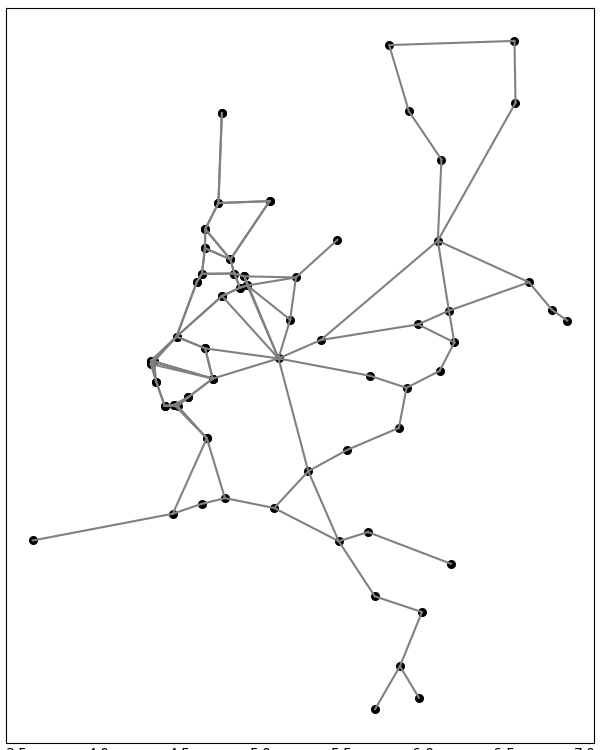
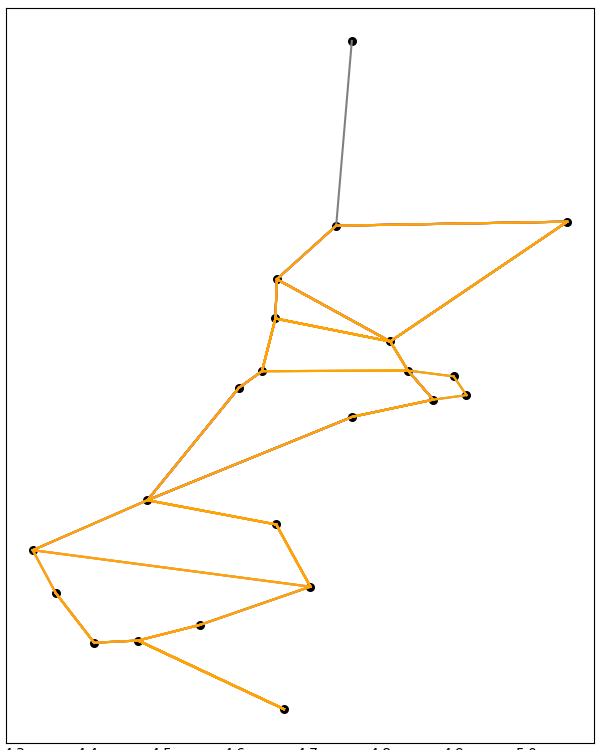
Nederland en connecties worden in een kaart getekent

diff --git a/spoorschavuiten/code/visualization/visualize.py b/spoorschavuiten/code/visualization/visualize.py
@@ -1,60 +1,58 @@
 import matplotlib
 matplotlib.use("TkAgg")
 import matplotlib.pyplot as plt
-import numpy as np
 from code.classes.classes import Region
 
-def visualizeMap():
+def makeMap(region: Region) -> None:
     '''
     All stations and connections are imported, stations are made to a dot on the plot.
     Connections are made to be a line between dots on the plot.  
     '''
-    holland = Region("data/StationsHolland.csv", "data/ConnectiesHolland.csv")
-    netherlands = Region("data/StationsNationaal.csv", "data/ConnectiesNationaal.csv")
 
     plt.style.use('_mpl-gallery')
-    
+    plt.figure(figsize=(6,7.5))
+    xConnection = []
+    yConnection = []
+
 # Coordinates Holland
     x = []
     y = []
+    drawDots(region, x, y)
+    drawLines(region, xConnection, yConnection)
+
 # Coordinates Netherlands
-    xn = []
-    yn = []
-    xConnection = []
-    yConnection = []
-    plt.figure(figsize=(6,7.5))
-
-    drawDots(holland, x, y)
-    drawLines(holland, xConnection, yConnection)
-
-    # Coordinates Netherlands
-    xn = []
-    yn = []
-    drawDots(netherlands, xn, yn)
-    drawLines(netherlands, xConnection, yConnection)
-
-    
-    
-    
-
-    
+    # xn = []
+    # yn = []
+    # drawDots(region, xn, yn)
+    # drawLines(region, xConnection, yConnection)
 
     plt.grid(False)
+
+
+def visualizeMap(region: Region) -> None:
+    '''
+    Draws a map of the train network of the Netherlands.
+    '''
+    # makeMap(region)
+    # drawUsedConnections(region)
     plt.savefig('verbindingenInNederland.png')
     plt.show()
 
 
-
-
-
-def drawDots(region: Region, x: list, y: list):
+def drawDots(region: Region, x: list, y: list) -> None:
+    '''
+    Draw all stations as dots on the map.
+    '''
     for station in region._stations:
         x.append(region._stations[station]._x)
         y.append(region._stations[station]._y)
     plt.scatter(x, y, c= "black", s=30)
 
 
-def drawLines(region: Region, xList: list, yList: list):
+def drawLines(region: Region, xList: list, yList: list) -> None:
+    '''
+    Draw all connections as lines on the map.
+    '''
     for connection in region._connections:
         xA = connection._stationA._x
         yA = connection._stationA._y
@@ -65,7 +63,27 @@ def drawLines(region: Region, xList: list, yList: list):
         yList.append(yA)
         xList.append(xB)
         yList.append(yB)
-        plt.plot(xList, yList, c = "gray")
+        plt.plot(xList, yList, "-", c = "gray")
 
         xList.clear()
         yList.clear()
+
+def drawUsedConnections(region: Region, xList: list, yList: list, color: str) -> None:
+# def drawUsedConnections(region: Region) -> None:
+    xList = []
+    yList = []
+    for route in region._routes:
+        for connection in route._route:
+            xA = connection._stationA._x
+            yA = connection._stationA._y
+            xB = connection._stationB._x
+            yB = connection._stationB._y
+
+            xList.append(xA)
+            yList.append(yA)
+            xList.append(xB)
+            yList.append(yB)
+            plt.plot(xList, yList, c = color)
+            # print(color)
+            xList.clear()
+            yList.clear()

diff --git a/spoorschavuiten/main_visualisation.py b/spoorschavuiten/main_visualisation.py
@@ -1,3 +1,24 @@
-from code.visualization.visualize import visualizeMap
+from code.visualization.visualize import makeMap, visualizeMap, drawUsedConnections
+from code.classes.classes import Region
+from code.algorithms import randomise
 
-visualizeMap()
+holland = Region("data/StationsHolland.csv", "data/ConnectiesHolland.csv")
+
+max_trains = 7
+makeMap(holland)
+xConnections = []
+yConnections = []
+colors = ["red", "blue", "pink", "black", "yellow", "hotpink", "orange"]
+
+for i in range(max_trains):
+    randomise.random_route_2(holland)
+    if holland.is_solution():
+        break
+    drawUsedConnections(holland, xConnections, yConnections, colors[i])
+    # print("-----------------------kleurtje-----------------------")
+    # print(colors[i])
+    # print("-----------------------kleurtje-----------------------")
+
+visualizeMap(holland)
+holland.generate_output()
+
